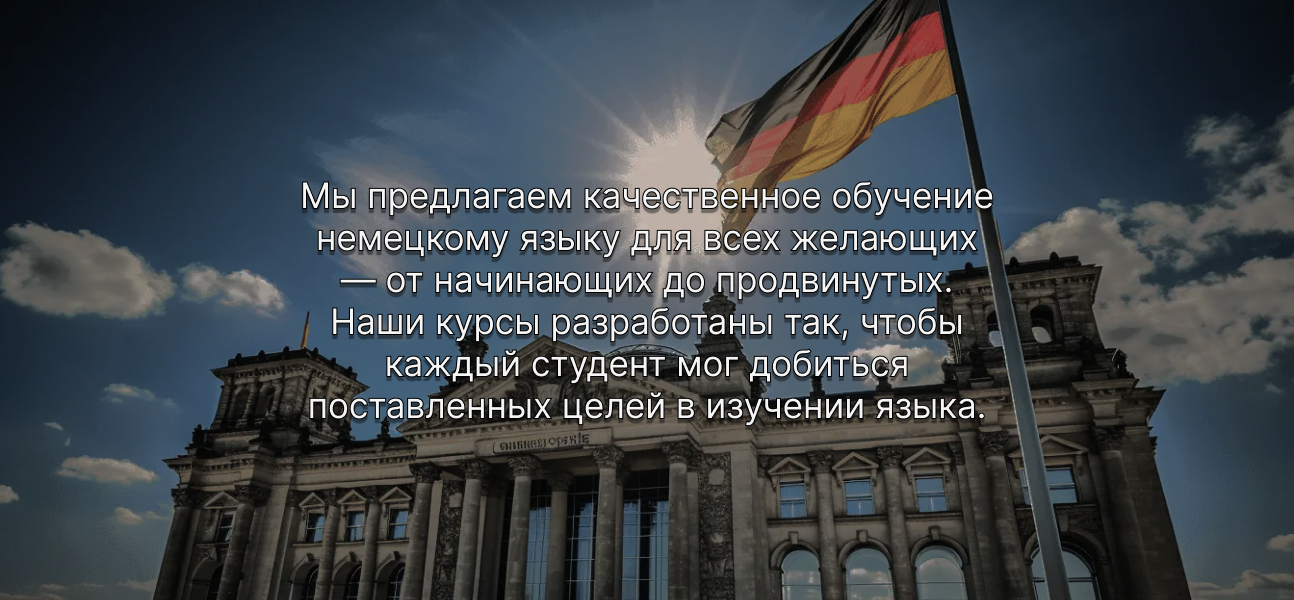
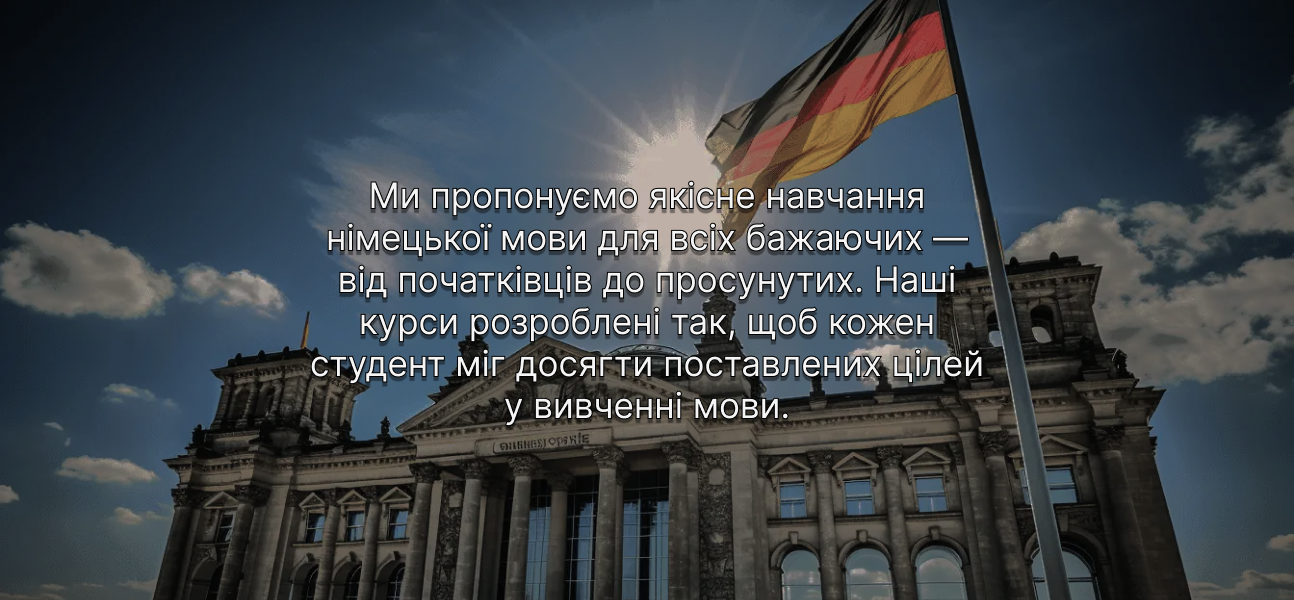
Translated the homepage to Ukrainian

Changed region(s): [[0.2164, 0.3, 0.7728, 0.72]]

diff --git a/index.html b/index.html
@@ -1,6 +1,6 @@
 <!DOCTYPE html>
 
-<html lang="ru">
+<html lang="uk">
 
 <head>
 
@@ -8,14 +8,17 @@
 
 	<meta name="viewport" content="width=device-width, initial-scale=1.0">
 
-	<meta name="description" content="Курсы немецкого языка с Ксенией Котруца. Более 10 лет опыта. Курсы для начинающих и продвинутых. Запишитесь на обучение!">
+	<meta name="description" content="Курси німецької мови з Ксенією Котруца. Понад 10 років досвіду. Курси для початківців та просунутих. Запишіться на навчання!">
 
-	<meta name="keywords" content="немецкий язык, курсы немецкого, обучение немецкому, Ксения Котруца, немецкий для начинающих, продвинутый курс немецкого">
-	<meta name="author" content="Ксения Котруца">
+	<meta name="description" lang="de" content="Deutschkurse mit Xenia Kotrutsa. Über 10 Jahre Erfahrung. Kurse für Anfänger und Fortgeschrittene. Melden Sie sich jetzt an!">
+
+	<meta name="keywords" content="німецька мова, курси німецької, навчання німецької, Ксенія Котруца, німецька для початківців, просунутий курс німецької">
+
+	<meta name="author" content="Ксенія Котруца">
 
 	<meta name="robots" content="index, follow">
 
-	<title>Курсы немецкого языка</title>
+	<title>Курси німецької мови</title>
 
 	<link rel="icon" href="images/logo.png">
 
@@ -101,8 +104,8 @@
 		<div class="row row-cols-1 row-cols-md-2 row-cols-lg-3">
 			<div class="col mx-auto">
 			<img src="images/ksenia-kotrutsa.jpeg" class="mb-3" alt="Автор" width="100%">
-			<h1 class="fw-light mb-3">Ксения Котруца</h1>
-			<p class="text-muted">Опытный преподаватель немецкого языка с более чем 10-летним стажем. Она специализируется на разработке эффективных методов обучения для учеников разного возраста, включая детей и взрослых. В своей практике использует индивидуальный подход, который позволяет быстро и уверенно освоить язык, будь то для повседневного общения, работы или учебы. Благодаря многолетнему опыту и современным методикам, её ученики успешно достигают своих целей, будь то подготовка к экзаменам или свободное владение немецким языком.</p>
+			<h1 class="fw-light mb-3">Ксенія Котруца</h1>
+			<p class="text-muted">Досвідчений викладач німецької мови з понад 10-річним стажем. Вона спеціалізується на розробці ефективних методів навчання для учнів різного віку, включаючи дітей та дорослих. У своїй практиці застосовує індивідуальний підхід, який дозволяє швидко та впевнено опанувати мову, незалежно від того, чи це для повсякденного спілкування, роботи або навчання. Завдяки багаторічному досвіду та сучасним методикам, її учні успішно досягають своїх цілей, будь то підготовка до іспитів чи вільне володіння німецькою мовою.</p>
 		</div>
 		</div>
 	</div>
@@ -116,10 +119,9 @@
 				<div class="card mt-5 shadow p-3 bg-body-tertiary rounded" >
 					<img src="images/card-img.png" class="card-img-top" alt="Курс A1.1">
 					<div class="card-body">
-						
 						<h5 class="card-title">A1.1</h5>
-						<p class="card-text">Lorem ipsum dolor, sit amet consectetur adipisicing, elit. Soluta perferendis autem, consectetur, distinctio.</p>
-						<a href="https://t.me/KseniaKtr" target="_blank" class="btn btn-warning">Записаться на курс</a>
+						<p class="card-text fixed-height">Перший етап вивчення німецької мови. Почніть з азів: алфавіт, базова граматика, привітання та прості діалоги.</p>
+						<a href="https://t.me/KseniaKtr" target="_blank" class="btn btn-warning">Записатися на курс</a>
 					</div>
 				</div>
 			</div>
@@ -129,8 +131,8 @@
 					<img src="images/card-img.png" class="card-img-top" alt="Курс A1.2">
 					<div class="card-body">
 						<h5 class="card-title">A1.2</h5>
-						<p class="card-text">Lorem ipsum dolor, sit amet consectetur adipisicing, elit. Soluta perferendis autem, consectetur, distinctio.</p>
-						<a href="https://t.me/KseniaKtr" target="_blank" class="btn btn-warning">Записаться на курс</a>
+						<p class="card-text fixed-height">Продовження початкового рівня. Ви навчитеся будувати прості речення, запитувати й відповідати на базові питання.</p>
+						<a href="https://t.me/KseniaKtr" target="_blank" class="btn btn-warning">Записатися на курс</a>
 					</div>
 				</div>
 			</div>
@@ -140,8 +142,8 @@
 					<img src="images/card-img.png" class="card-img-top" alt="Курс A2.1">
 					<div class="card-body">
 						<h5 class="card-title">A2.1</h5>
-						<p class="card-text">Lorem ipsum dolor, sit amet consectetur adipisicing, elit. Soluta perferendis autem, consectetur, distinctio.</p>
-						<a href="https://t.me/KseniaKtr" target="_blank" class="btn btn-warning">Записаться на курс</a>
+						<p class="card-text fixed-height">Цей курс допоможе вам розширити словниковий запас і вдосконалити навички спілкування в повсякденних ситуаціях.</p>
+						<a href="https://t.me/KseniaKtr" target="_blank" class="btn btn-warning">Записатися на курс</a>
 					</div>
 				</div>
 			</div>
@@ -151,8 +153,8 @@
 					<img src="images/card-img.png" class="card-img-top" alt="Курс A2.2">
 					<div class="card-body">
 						<h5 class="card-title">A2.2</h5>
-						<p class="card-text">Lorem ipsum dolor, sit amet consectetur adipisicing, elit. Soluta perferendis autem, consectetur, distinctio.</p>
-						<a href="https://t.me/KseniaKtr" target="_blank" class="btn btn-warning">Записаться на курс</a>
+						<p class="card-text fixed-height">Детальне вивчення граматики та активна практика мови для подорожей, роботи й повсякденного життя.</p>
+						<a href="https://t.me/KseniaKtr" target="_blank" class="btn btn-warning">Записатися на курс</a>
 					</div>
 				</div>
 			</div>
@@ -162,8 +164,8 @@
 					<img src="images/card-img.png" class="card-img-top" alt="Курс B1.1">
 					<div class="card-body">
 						<h5 class="card-title">B1.1</h5>
-						<p class="card-text">Lorem ipsum dolor, sit amet consectetur adipisicing, elit. Soluta perferendis autem, consectetur, distinctio.</p>
-						<a href="https://t.me/KseniaKtr" target="_blank" class="btn btn-warning">Записаться на курс</a>
+						<p class="card-text fixed-height">Перший етап середнього рівня. Ви зможете вести розмови на знайомі теми, читати прості статті та писати листи.</p>
+						<a href="https://t.me/KseniaKtr" target="_blank" class="btn btn-warning">Записатися на курс</a>
 					</div>
 				</div>
 			</div>
@@ -173,8 +175,8 @@
 					<img src="images/card-img.png" class="card-img-top" alt="Курс B1.2">
 					<div class="card-body">
 						<h5 class="card-title">B1.2</h5>
-						<p class="card-text">Lorem ipsum dolor, sit amet consectetur adipisicing, elit. Soluta perferendis autem, consectetur, distinctio.</p>
-						<a href="https://t.me/KseniaKtr" target="_blank" class="btn btn-warning">Записаться на курс</a>
+						<p class="card-text fixed-height">Навчіться висловлювати свої думки німецькою мовою, глибше розуміти граматику і спілкуватися в більш складних ситуаціях.</p>
+						<a href="https://t.me/KseniaKtr" target="_blank" class="btn btn-warning">Записатися на курс</a>
 					</div>
 				</div>
 			</div>
@@ -184,8 +186,8 @@
 					<img src="images/card-img.png" class="card-img-top" alt="Курс B2.1">
 					<div class="card-body">
 						<h5 class="card-title">B2.1</h5>
-						<p class="card-text">Lorem ipsum dolor, sit amet consectetur adipisicing, elit. Soluta perferendis autem, consectetur, distinctio.</p>
-						<a href="https://t.me/KseniaKtr" target="_blank" class="btn btn-warning">Записаться на курс</a>
+						<p class="card-text fixed-height">Курс для тих, хто прагне впевнено спілкуватися на професійні та особисті теми. Особлива увага приділяється письму.</p>
+						<a href="https://t.me/KseniaKtr" target="_blank" class="btn btn-warning">Записатися на курс</a>
 					</div>
 				</div>
 			</div>
@@ -195,8 +197,8 @@
 					<img src="images/card-img.png" class="card-img-top" alt="Курс B2.2">
 					<div class="card-body">
 						<h5 class="card-title">B2.2</h5>
-						<p class="card-text">Lorem ipsum dolor, sit amet consectetur adipisicing, elit. Soluta perferendis autem, consectetur, distinctio.</p>
-						<a href="https://t.me/KseniaKtr" target="_blank" class="btn btn-warning">Записаться на курс</a>
+						<p class="card-text fixed-height">Завершальний етап середнього рівня. Ви будете впевнено говорити, читати й писати, використовуючи складні структури.</p>
+						<a href="https://t.me/KseniaKtr" target="_blank" class="btn btn-warning">Записатися на курс</a>
 					</div>
 				</div>
 			</div>

diff --git a/css/style.css b/css/style.css
@@ -48,3 +48,10 @@ footer a:hover {
 	
 }
 
+.fixed-height {
+
+	height: 170px;
+	overflow: hidden;
+	
+  }
+
